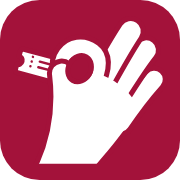
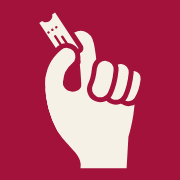
Add files via upload

diff --git a/index.html b/index.html
@@ -13,48 +13,48 @@
 <meta property="og:description" content="Lähipäivien teatterinäytökset, joihin saat vielä lippuja. Pääkaupunkiseudun teatterit yhdellä sivulla.">
 <meta property="og:url" content="https://lippuillaksi.fi/">
 <meta property="og:locale" content="fi_FI">
-<link rel="icon" href="/favicon.svg" type="image/svg+xml">
-<link rel="icon" href="/favicon.png" type="image/png" sizes="32x32">
-<link rel="apple-touch-icon" href="/apple-touch-icon.png">
+<link rel="icon" href="/favicon.ico?v=6" sizes="48x48">
+<link rel="icon" href="/favicon.svg?v=6" type="image/svg+xml">
+<link rel="apple-touch-icon" href="/apple-touch-icon.png?v=6">
 <meta property="og:image" content="https://lippuillaksi.fi/logo-512.png">
 <script type="application/ld+json">{"@context":"https://schema.org","@type":"WebSite","name":"Lippu illaksi","url":"https://lippuillaksi.fi/","inLanguage":"fi"}</script>
 <link rel="preconnect" href="https://fonts.googleapis.com">
 <link rel="preconnect" href="https://fonts.gstatic.com" crossorigin>
-<link rel="stylesheet" href="https://fonts.googleapis.com/css2?family=Bricolage+Grotesque:opsz,wght@12..96,600;12..96,800&family=Figtree:wght@400;500;600;700&display=swap">
+<link rel="stylesheet" href="https://fonts.googleapis.com/css2?family=Schibsted+Grotesk:wght@400;500;600;700;800&display=swap">
 <style>
 /* Layout (Illaksi teatteriin): one calm column — date strip, filters, then a time-ordered list of showings (like a cinema listing). */
 :root {
-  --bg: #F5F4F7;
-  --surface: #FFFFFF;
-  --ink: #1C1726;
-  --muted: #625B70;
-  --line: #E3E0EA;
-  --chip: #EEEBF3;
+  --bg: #F6F1E7;
+  --surface: #FFFCF6;
+  --ink: #221C17;
+  --muted: #6B5F55;
+  --line: #E3D9C9;
+  --chip: #EEE6D8;
   --accent: #A3123A;
   --accent-ink: #FFFFFF;
-  --accent-soft: #F8E6EB;
+  --accent-soft: #F3E0E0;
   --ok: #1F7A4D;
-  --ok-soft: #E3F3EA;
+  --ok-soft: #E2F0E4;
   --warn: #A55300;
-  --warn-soft: #FBEEDD;
-  --sold: #857F90;
-  --sold-soft: #EEEDF1;
-  --shadow: 0 1px 2px rgba(28, 23, 38, .05);
-  --f-display: "Bricolage Grotesque", "Avenir Next", "Segoe UI", system-ui, sans-serif;
-  --f-body: "Figtree", "Segoe UI", system-ui, -apple-system, sans-serif;
+  --warn-soft: #F8E8D2;
+  --sold: #6F645A;
+  --sold-soft: #EDE7DD;
+  --shadow: 0 1px 2px rgba(34, 28, 23, .05);
+  --f-display: "Schibsted Grotesk", "Helvetica Neue", "Segoe UI", system-ui, sans-serif;
+  --f-body: "Schibsted Grotesk", "Helvetica Neue", "Segoe UI", system-ui, -apple-system, sans-serif;
 }
 @media (prefers-color-scheme: dark) {
   :root:not([data-theme="light"]) {
-    --bg: #131018; --surface: #1D1924; --ink: #F1EEF6; --muted: #A69FB3; --line: #2F2A39; --chip: #2A2533;
-    --accent: #F0567A; --accent-ink: #1A0710; --accent-soft: #3A1A25;
-    --ok: #4CC38A; --ok-soft: #173326; --warn: #F0A243; --warn-soft: #3A2A14; --sold: #7C7688; --sold-soft: #26222D;
+    --bg: #16120E; --surface: #201A15; --ink: #F3ECE2; --muted: #B3A696; --line: #3A3128; --chip: #2C251E;
+    --accent: #F0567A; --accent-ink: #1A0710; --accent-soft: #3A1A22;
+    --ok: #4CC38A; --ok-soft: #17301F; --warn: #F0A243; --warn-soft: #3A2A14; --sold: #968A7D; --sold-soft: #27211B;
     --shadow: none; color-scheme: dark;
   }
 }
 :root[data-theme="dark"] {
-  --bg: #131018; --surface: #1D1924; --ink: #F1EEF6; --muted: #A69FB3; --line: #2F2A39; --chip: #2A2533;
-  --accent: #F0567A; --accent-ink: #1A0710; --accent-soft: #3A1A25;
-  --ok: #4CC38A; --ok-soft: #173326; --warn: #F0A243; --warn-soft: #3A2A14; --sold: #7C7688; --sold-soft: #26222D;
+  --bg: #16120E; --surface: #201A15; --ink: #F3ECE2; --muted: #B3A696; --line: #3A3128; --chip: #2C251E;
+  --accent: #F0567A; --accent-ink: #1A0710; --accent-soft: #3A1A22;
+  --ok: #4CC38A; --ok-soft: #17301F; --warn: #F0A243; --warn-soft: #3A2A14; --sold: #968A7D; --sold-soft: #27211B;
   --shadow: none; color-scheme: dark;
 }
 
@@ -67,7 +67,7 @@ button, select { font: inherit; color: inherit; }
 /* Header */
 header { display: flex; flex-wrap: wrap; align-items: flex-end; justify-content: space-between; gap: 10px 20px; }
 .brand { display: flex; flex-direction: column; gap: 4px; min-width: 0; }
-.logo { font-family: var(--f-display); font-weight: 800; font-size: clamp(2rem, 6vw, 2.75rem); line-height: 1; letter-spacing: -0.02em; margin: 0; }
+.logo { font-family: var(--f-display); font-weight: 800; font-size: clamp(2rem, 6vw, 2.75rem); line-height: 1; letter-spacing: -0.025em; margin: 0; }
 .logo span { color: var(--accent); }
 .logo img { height: 1.9em; width: auto; vertical-align: -0.6em; margin-right: .2em; }
 .tagline { margin: 0; color: var(--muted); font-size: 1.02rem; text-wrap: balance; }
@@ -78,7 +78,7 @@ header { display: flex; flex-wrap: wrap; align-items: flex-end; justify-content:
 .day { flex: 0 0 auto; min-width: 104px; display: flex; flex-direction: column; align-items: flex-start; gap: 2px; padding: 10px 14px; border-radius: 12px; border: 1px solid var(--line); background: var(--surface); cursor: pointer; text-align: left; box-shadow: var(--shadow); }
 .day:hover { border-color: var(--muted); }
 .day .dname { font-weight: 700; font-size: .98rem; }
-.day .ddate { color: var(--muted); font-size: .85rem; font-variant-numeric: tabular-nums; }
+.day .ddate { color: var(--muted); font-size: .85rem; font-variant-numeric: lining-nums; }
 .day .dcount { font-size: .78rem; color: var(--ok); font-weight: 600; }
 .day[aria-pressed="true"] { background: var(--ink); color: var(--bg); border-color: var(--ink); }
 .day[aria-pressed="true"] .ddate { color: var(--bg); opacity: .75; }
@@ -106,7 +106,7 @@ select { padding: 8px 34px 8px 12px; border-radius: 10px; border: 1px solid var(
 .list { display: flex; flex-direction: column; gap: 10px; }
 .show { display: grid; grid-template-columns: 5.25rem minmax(0, 1fr) auto; gap: 8px 20px; align-items: start; padding: 18px 20px; background: var(--surface); border: 1px solid var(--line); border-radius: 14px; box-shadow: var(--shadow); }
 .time { display: flex; flex-direction: column; gap: 4px; }
-.time strong { font-family: var(--f-display); font-weight: 800; font-size: 1.7rem; line-height: 1; font-variant-numeric: tabular-nums; letter-spacing: -0.01em; }
+.time strong { font-family: var(--f-display); font-weight: 800; font-size: 1.7rem; line-height: 1; font-variant-numeric: lining-nums; letter-spacing: -0.01em; }
 .soon { font-size: .72rem; font-weight: 700; text-transform: uppercase; letter-spacing: .05em; color: var(--accent); }
 .info { min-width: 0; display: flex; flex-direction: column; gap: 6px; }
 .info h3 { margin: 0; font-size: 1.18rem; font-weight: 700; line-height: 1.25; text-wrap: balance; }
@@ -125,7 +125,7 @@ details p { margin: 6px 0 0; max-width: 62ch; }
 .avail.many { color: var(--ok); background: var(--ok-soft); }
 .avail.few { color: var(--warn); background: var(--warn-soft); }
 .avail.sold { color: var(--sold); background: var(--sold-soft); }
-.price { font-size: .95rem; color: var(--muted); font-variant-numeric: tabular-nums; }
+.price { font-size: .95rem; color: var(--muted); font-variant-numeric: lining-nums; }
 .price b { color: var(--ink); font-size: 1.15rem; }
 .btn { border: 0; border-radius: 10px; padding: 10px 18px; font-weight: 700; background: var(--accent); color: var(--accent-ink); cursor: pointer; white-space: nowrap; }
 .btn:hover { filter: brightness(1.08); }
@@ -141,13 +141,13 @@ footer { color: var(--muted); font-size: .85rem; border-top: 1px solid var(--lin
 footer p { margin: 0 0 6px; max-width: 70ch; }
 
 /* Modal */
-.overlay { position: fixed; inset: 0; background: rgba(10, 8, 14, .55); display: flex; align-items: center; justify-content: center; padding: 16px; z-index: 10; }
+.overlay { position: fixed; inset: 0; background: rgba(14, 10, 6, .55); display: flex; align-items: center; justify-content: center; padding: 16px; z-index: 10; }
 .modal { background: var(--surface); color: var(--ink); border-radius: 16px; max-width: 440px; width: 100%; padding: 24px; display: flex; flex-direction: column; gap: 12px; border: 1px solid var(--line); }
 .modal h4 { margin: 0; font-family: var(--f-display); font-size: 1.35rem; font-weight: 600; }
 .modal p { margin: 0; color: var(--muted); }
 .modal dl { display: grid; grid-template-columns: auto 1fr; gap: 4px 14px; margin: 4px 0; font-size: .95rem; }
 .modal dt { color: var(--muted); }
-.modal dd { margin: 0; font-weight: 600; font-variant-numeric: tabular-nums; }
+.modal dd { margin: 0; font-weight: 600; font-variant-numeric: lining-nums; }
 .modal .row { display: flex; justify-content: flex-end; gap: 8px; margin-top: 6px; }
 .btn.ghost { background: var(--chip); color: var(--ink); }
 
@@ -168,7 +168,7 @@ a.btn { text-decoration: none; display: inline-block; }
 .btn.off { background: var(--sold-soft); color: var(--sold); cursor: default; }
 .flag { font-size: .72rem; font-weight: 700; text-transform: uppercase; letter-spacing: .05em; color: var(--warn); }
 details a { color: var(--accent); font-weight: 600; font-size: .88rem; }
-.updated { font-size: .85rem; color: var(--muted); margin: 0; font-variant-numeric: tabular-nums; }
+.updated { font-size: .85rem; color: var(--muted); margin: 0; font-variant-numeric: lining-nums; }
 .coverage { display: flex; flex-wrap: wrap; gap: 6px; margin: 8px 0 12px; padding: 0; list-style: none; }
 .coverage li { font-size: .8rem; padding: 3px 9px; border-radius: 6px; background: var(--chip); color: var(--ink); }
 .coverage li.miss { background: transparent; border: 1px dashed var(--line); color: var(--muted); }
@@ -176,14 +176,14 @@ details a { color: var(--accent); font-weight: 600; font-size: .88rem; }
 .coverage a { color: inherit; text-decoration: none; }
 .loading { padding: 40px 20px; text-align: center; color: var(--muted); }
 </style>
-<style>html{-webkit-text-size-adjust:100%}body{margin:0}img{max-width:100%}[hidden]{display:none!important}</style>
+<style>html{-webkit-text-size-adjust:100%}body{margin:0}img{max-width:100%}[hidden]{display:none!important}.field{max-width:100%;min-width:0}.field select{flex:1 1 auto;min-width:0;max-width:100%;text-overflow:ellipsis}</style>
 </head>
 <body>
 
 <div class="wrap">
   <header>
     <div class="brand">
-      <h1 class="logo"><img src="/logo.svg" alt="" width="63" height="60">Lippu <span>illaksi</span></h1>
+      <h1 class="logo"><img src="/logo.svg?v=6" alt="" width="42" height="60">Lippu <span>illaksi</span></h1>
       <p class="tagline">Lähipäivien näytökset, joihin saat vielä lippuja. Pääkaupunkiseudun teatterit yhdellä sivulla.</p>
     </div>
     <span class="proto" title="Pilottiversio: mukana osa pääkaupunkiseudun teattereista">Pilotti · pääkaupunkiseutu</span>

diff --git a/seo.py b/seo.py
@@ -58,8 +58,8 @@ def fdur(m, inter):
     return s + (", sis. väliajan" if inter is True else ", ei väliaikaa" if inter is False else "")
 
 
-CSS = """:root{--bg:#F5F4F7;--surface:#FFF;--ink:#1C1726;--muted:#625B70;--line:#E3E0EA;--chip:#EEEBF3;--accent:#A3123A;--accent-ink:#FFF;--accent-soft:#F8E6EB;--ok:#1F7A4D;--ok-soft:#E3F3EA;--warn:#A55300;--warn-soft:#FBEEDD;--sold:#857F90;--sold-soft:#EEEDF1;--f-display:"Bricolage Grotesque","Avenir Next","Segoe UI",system-ui,sans-serif;--f-body:"Figtree","Segoe UI",system-ui,-apple-system,sans-serif}
-@media (prefers-color-scheme:dark){:root{--bg:#131018;--surface:#1D1924;--ink:#F1EEF6;--muted:#A69FB3;--line:#2F2A39;--chip:#2A2533;--accent:#F0567A;--accent-ink:#1A0710;--accent-soft:#3A1A25;--ok:#4CC38A;--ok-soft:#173326;--warn:#F0A243;--warn-soft:#3A2A14;--sold:#7C7688;--sold-soft:#26222D;color-scheme:dark}}
+CSS = """:root{--bg:#F6F1E7;--surface:#FFFCF6;--ink:#221C17;--muted:#6B5F55;--line:#E3D9C9;--chip:#EEE6D8;--accent:#A3123A;--accent-ink:#FFF;--accent-soft:#F3E0E0;--ok:#1F7A4D;--ok-soft:#E2F0E4;--warn:#A55300;--warn-soft:#F8E8D2;--sold:#6F645A;--sold-soft:#EDE7DD;--f-display:"Schibsted Grotesk","Helvetica Neue","Segoe UI",system-ui,sans-serif;--f-body:"Schibsted Grotesk","Helvetica Neue","Segoe UI",system-ui,-apple-system,sans-serif}
+@media (prefers-color-scheme:dark){:root{--bg:#16120E;--surface:#201A15;--ink:#F3ECE2;--muted:#B3A696;--line:#3A3128;--chip:#2C251E;--accent:#F0567A;--accent-ink:#1A0710;--accent-soft:#3A1A22;--ok:#4CC38A;--ok-soft:#17301F;--warn:#F0A243;--warn-soft:#3A2A14;--sold:#968A7D;--sold-soft:#27211B;color-scheme:dark}}
 *{box-sizing:border-box}html{-webkit-text-size-adjust:100%}
 body{margin:0;background:var(--bg);color:var(--ink);font-family:var(--f-body);font-size:16px;line-height:1.5}
 a{color:var(--accent)}
@@ -78,7 +78,7 @@ h1{font-family:var(--f-display);font-weight:800;font-size:clamp(1.7rem,5vw,2.4re
 h2{font-family:var(--f-display);font-weight:600;font-size:1.25rem;margin:10px 0 0;padding-bottom:8px;border-bottom:1px solid var(--line)}
 .list{display:flex;flex-direction:column;gap:10px}
 .show{display:grid;grid-template-columns:5rem minmax(0,1fr) auto;gap:6px 18px;align-items:start;padding:16px 18px;background:var(--surface);border:1px solid var(--line);border-radius:14px}
-.time{font-family:var(--f-display);font-weight:800;font-size:1.5rem;line-height:1.1;font-variant-numeric:tabular-nums}
+.time{font-family:var(--f-display);font-weight:800;font-size:1.5rem;line-height:1.1;font-variant-numeric:lining-nums}
 .time small{display:block;font-family:var(--f-body);font-size:.75rem;font-weight:600;color:var(--muted)}
 .info{min-width:0;display:flex;flex-direction:column;gap:4px}
 .info h3{margin:0;font-size:1.12rem;line-height:1.25}.info h3 a{color:var(--ink);text-decoration:none}.info h3 a:hover{text-decoration:underline}
@@ -132,19 +132,19 @@ def page(path, title, desc, body, nav="", jsonld=None, noindex=False):
 <meta property="og:description" content="{e(desc[:300])}">
 <meta property="og:url" content="{e(canon)}">
 <meta property="og:locale" content="fi_FI">
-<link rel="icon" href="/favicon.svg" type="image/svg+xml">
-<link rel="icon" href="/favicon.png" type="image/png" sizes="32x32">
-<link rel="apple-touch-icon" href="/apple-touch-icon.png">
+<link rel="icon" href="/favicon.ico?v=6" sizes="48x48">
+<link rel="icon" href="/favicon.svg?v=6" type="image/svg+xml">
+<link rel="apple-touch-icon" href="/apple-touch-icon.png?v=6">
 <meta property="og:image" content="https://lippuillaksi.fi/logo-512.png">
 <meta name="color-scheme" content="light dark">
 <link rel="preconnect" href="https://fonts.googleapis.com">
 <link rel="preconnect" href="https://fonts.gstatic.com" crossorigin>
-<link rel="stylesheet" href="https://fonts.googleapis.com/css2?family=Bricolage+Grotesque:opsz,wght@12..96,600;12..96,800&family=Figtree:wght@400;500;600;700&display=swap">
+<link rel="stylesheet" href="https://fonts.googleapis.com/css2?family=Schibsted+Grotesk:wght@400;500;600;700;800&display=swap">
 <link rel="stylesheet" href="/tyyli.css">
 {ld}</head>
 <body>
 <div class="wrap">
-<header class="top"><a class="logo" href="/"><img src="/logo.svg" alt="" width="42" height="40">Lippu <span>illaksi</span></a><nav class="nav" aria-label="Päävalikko">{nav_html}</nav></header>
+<header class="top"><a class="logo" href="/"><img src="/logo.svg?v=6" alt="" width="28" height="40">Lippu <span>illaksi</span></a><nav class="nav" aria-label="Päävalikko">{nav_html}</nav></header>
 <main class="main">
 {body}
 </main>
